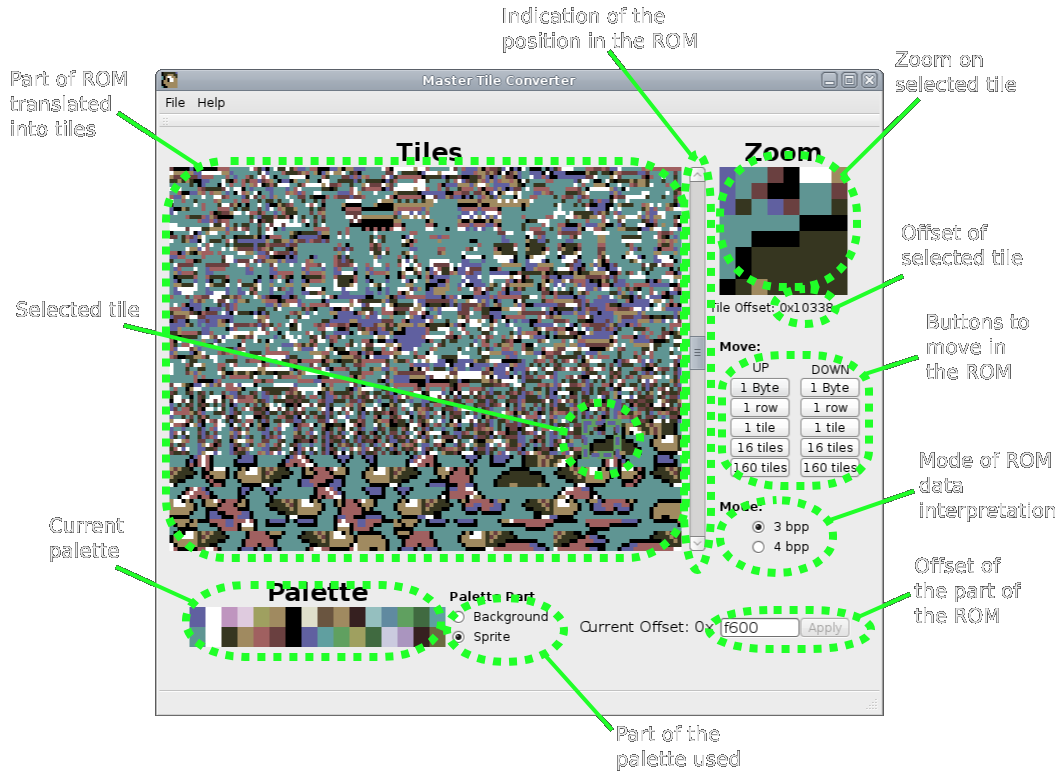
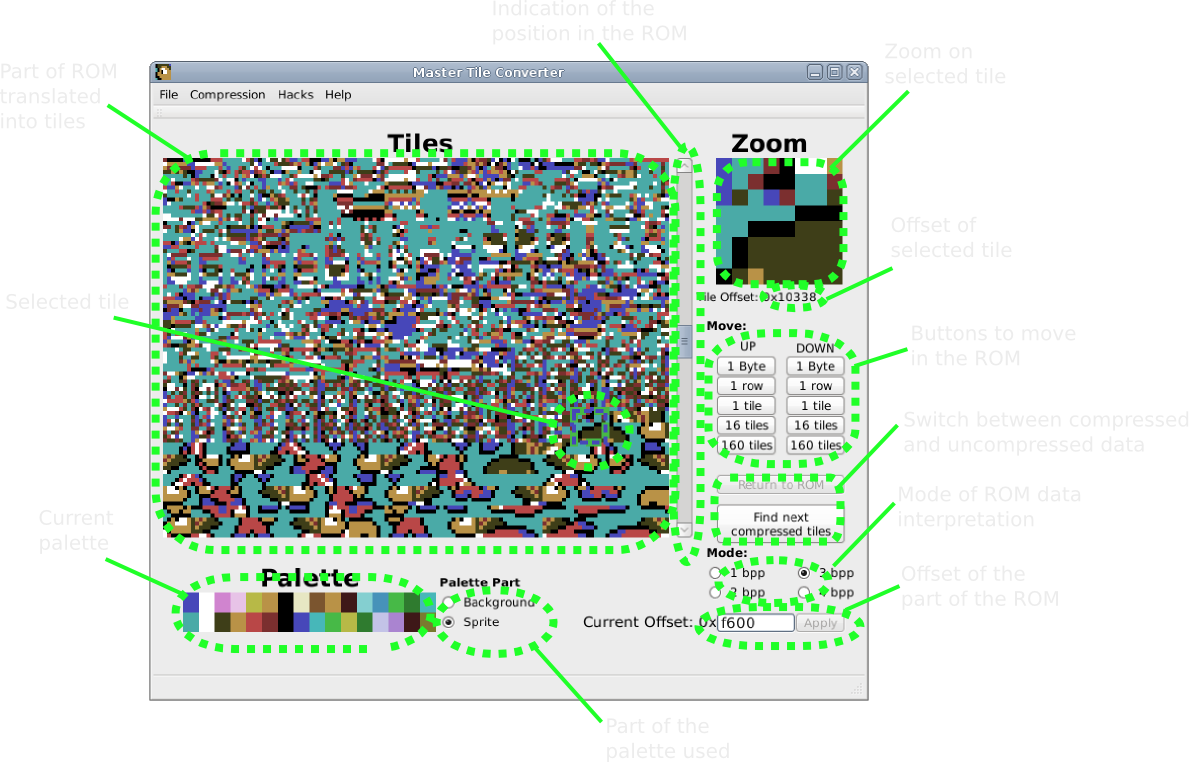
update doc

diff --git a/doc/index.html b/doc/index.html
@@ -5,6 +5,7 @@
         <meta charset="utf-8"/>
         <link rel="stylesheet" href="mastertileconverter.css" />
         <link rel="icon" type="images/png" href="images/mastertileconverter.ico" />
+        <meta name="keywords" content="sega, sms, master system, tile, hack, rom, editor, master tile converter, sms power"/>
         <title>Master Tile Converter</title>
     </head>
     <body>
@@ -16,16 +17,20 @@
         <div id="corps">
           <h2>Description</h2>
             <p>Welcome to <strong>Master Tile Converter</strong>!</p>
-            <p>Master Tile Converter (MTC) can export and import 3bpp and 4bpp tiles in Sega Master System (SMS) roms. It uses a portable QT interface.<p>
+            <p>Master Tile Converter (MTC) can export and import several tiles formats in Sega Master System (SMS) roms. It uses a portable Qt interface.<p>
             <p>Features:
               <ul>
                   <li>Read SMS roms</li>
                   <li>Import <a href="http://www.smspower.org/meka/">Meka</a> palette</li>
-                  <li>Display 4bpp and 3bpp uncompressed pictures</li>
-                  <li>Export 4bpp and 3bpp uncompressed pictures</li>
-                  <li>Import BMP pictures</li>
+                  <li>Display 4bpp, 3bpp, 2bpp and 1bpp uncompressed tiles</li>
+                  <li>Export 4bpp, 3bpp, 2bpp and 1bpp uncompressed tiles</li>
+                  <li>Import BMP tiles</li>
+                  <li>Export 4bpp compressed tiles</li>
+                  <li>Compress 4bpp tiles</li>
+                  <li>Import compressed tiles</li>
                   <li>Export modified ROM</li>
                   <li>Correct ROM checksum</li>
+                  <li>Apply hacks to ROM (byte modification)</li>
                   <li>Work on GNU/Linux, MacOS and Windows</li>
                   <li>Free software (GNU), open source</li>
               </ul>
@@ -33,9 +38,9 @@
             <p>Contact: <img src="images/ctct.png" alt="contact"/></p>
           
           <h2>Downloads</h2>
-            <p>Binary version for Windows (old version): <a href="https://github.com/jmimu/Master-Tile-Converter/downloads">https://github.com/jmimu/Master-Tile-Converter/downloads</a></p>
+            <p>Binary version for Windows: <a href="https://github.com/jmimu/Master-Tile-Converter/downloads">https://github.com/jmimu/Master-Tile-Converter/downloads</a></p>
             <p>Development version sources (using <a href="http://git-scm.com/">git</a>): <a href="https://github.com/jmimu/Master-Tile-Converter">https://github.com/jmimu/Master-Tile-Converter</a></p>
-            <p>How to compile: install <a href="http://qt.nokia.com/downloads/downloads#qt-creator">QtCreator</a>, and open <strong>mastertileconverter.pro</strong></p>
+            <p>How to compile: install <a href="http://qt.nokia.com/downloads/downloads#qt-creator">QtCreator</a>, and open <strong>mastertileconverter.pro</strong>, and compile!</p>
 
           <h2>Help</h2>              
             <h3>Interface</h3>
@@ -43,22 +48,23 @@
             <h3>Instructions</h3>
               <ul>
                   <li>Open a SMS ROM in meka. When you see the tile you want to modify, export the palette (raw).</li>
-                  <li>Run mastertileconverter, and open the SMS ROM (file>open rom).</li>
-                  <li>Import your Meka palette (file import palette).</li>
+                  <li>Run mastertileconverter, and open the SMS ROM (<strong>File>Open rom</strong>).</li>
+                  <li>Import your Meka palette (<strong>File>Import palette</strong>). Default palette is Alex Kidd in Miracle World fisrt level.</li>
                   <li>Choose the part of the palette (sprite or background).</li>
-                  <li>Choose tile mode (3bpp or 4bpp).</li>
+                  <li>Choose tile mode (1bpp, 2bpp, 3bpp or 4bpp).</li>
                   <li>Go through the whole tiles (using UP/DOWN 160 tiles button) to find the tiles you want.</li>
                   <li>Align the tiles (see "Align tile" above), or input a known offset (and click on "Apply").</li>
-                  <li>Export or import BMP (see "Modify tiles" above).</li>
+                  <li>Export, modify and import BMP (see "Modify tiles" above).</li>
+                  <li>If you can't find the tiles, maybe they are compressed (see "Compressed data" above).</li>
                   <li>Save the modified rom (file>save rom). The ROM checksum will be updated.</li>
               </ul>
 
             <h3>Align tile</h3>
                 <p>When your palette is correct and you find something similar to what you are looking for:</p>
 		<p class="centrage"><img  class="screenshot" src="images/screen_align.png"  alt="align"/></p>
-                <p>In the screenshot above, the colors are not what one might expect. It is due to an incorrect byte alignment. Since (3 or 4) bytes represent 8 pixels, you have to begin at the right byte to have something correct.</p>
+                <p>In the screenshot above, the colors are not what one might expect. It is due to an incorrect byte alignment. Since (2, 3 or 4) bytes represent 8 pixels, you have to begin at the right byte to have something correct.</p>
 		<p class="centrage"><img  class="screenshot" src="images/byte_align.png"  alt="align"/></p>
-                <p>With the UP/Down 1 Byte buttons, find when the colors are correct (there are 3 or 4 possibilities)</p>
+                <p>With the UP/Down 1 Byte buttons, find when the colors are correct (there are 2, 3 or 4 possibilities)</p>
 		<p class="centrage"><img  class="screenshot" src="images/row_align.png"  alt="align"/></p>
                 <p>Then use the UP/Down 1 Row buttons to get the correct tile at the top of the tile</p>
 		<p class="centrage"><img  class="screenshot" src="images/ok_align.png"  alt="align"/></p>
@@ -67,19 +73,22 @@
                 <p>You are ready to import/export! You can note the offset for the next time...</p>
 
             <h3>Modify tiles</h3>
-                <p>When you have your tiles in correct position, you can export an image of them (file>Export Picture). You will get a 16 or 8-color BMP file, named after the offset and the number of bits per pixel, to help you remember where and how it has been taken from the ROM.</p>
+                <p>When you have your tiles in correct position, you can export an image of them <strong>File>Export Picture</strong>. You will get a 16, 8 or 4-color BMP file, named after the offset and the number of bits per pixel, to help you remember where and how it has been taken from the ROM.</p>
 		<p class="centrage"><img  class="screenshot" src="images/dump_0x10341_3bpp.png"  alt="dump"/></p>
                 <p>You can modify the picture in a graphic editor that respects indexed images palettes. It is the case of "GIMP" but not "kolourpaint", as an example.</p>
                 <p>It is very important to keep the part of the picture that are not intelligible unchanged. This data is not graphics, it may represent the music or the program and you don't want to modify it randomly...</p>
 		<p class="centrage"><img  class="screenshot" src="images/dump_0x10341_3bpp_new.png"  alt="dump"/></p>
                 <p>This picture will be the record of your work. You will be able to use it to quickly re-patch the rom.</p>
-                <p>You can import the modified picture in the rom if it is correctly aligned. The simplest way for it is to input the offset. Use file>Export Picture.</p>
+                <p>You can import the modified picture in the rom if it is correctly aligned. The simplest way for it is to input the offset. Use <strong>File>Export Picture</strong>.</p>
 
 
-            <h3>Import compressed tiles</h3>
-                <p>When you have to deal with compressed tiles, you can use Maxim’s <a href="http://www.smspower.org/maxim/Software/TileDecoder">TileDecoder</a> to extract data from roms.</p>
-                <p>After having modified tiles, you can re-compress them using Maxim’s <a href="http://www.smspower.org/maxim/Software/BMP2Tile">BMP2Tile</a> and <a href="http://www.smspower.org/maxim/Software/TileDecoder">TileDecoder</a> to create a compressed tiles .dat file.</p>
-                <p>In Master Tile Converter, use <strong>file>import compressed data</strong> to import this .dat file into the rom at the current address.</p>
+            <h3>Compressed data</h3>
+                <p>Master Tile Converter can also uncompress tiles from ROM if the compression is "Phantasy Star" RLE (see <a href="http://www.smspower.org/Development/Compression#PhantasyStarRLE">SMS Power</a>). Thanks to Maxim for his searching and sharing information! See <a href="http://www.smspower.org/maxim/Software/TileDecoder">TileDecoder</a>.</p>
+                <p>To find compressed data, just go to the begining of the rom (offset 0), and click on <strong>Find next compressed tiles</strong>. It can take some time. You can get "false positive" (tiles having no sens). In this case just click again on <strong>Find next compressed tiles</strong>.</p>
+                <p>When you find correct tiles, you can export it using <strong>File>Export Picture</strong>. You will get a 16-color BMP file, named after the offse, the number of bits per pixel, the number of decompressed tiles, and the maximum size of the compressed data.</p>
+                <p>You can modify the picture in a graphic editor that respects indexed images palettes. It is the case of "GIMP" but not "kolourpaint", as an example.</p>
+                <p>You then have to compressed the modified picture, using <strong>Compression>Compress Picture</strong>. You will be asked how many tiles have to be compressed (since the picture is 8 tiles-wide). Check picture name to be sure how many tiles to compress. Then you will have a message saying the size of the compressed data. Check that it is less than the maximum allowed (written on the picture name). It may work with a little more, but anything can happen (other pictures changed, game bug...). The compressed data is written in the file "compr_tmp.dat" in Master Tile Converter folder.</p>
+                <p>Use <strong>File>Import compressed data</strong> to import this "compr_tmp.dat" file into the rom at the current address.</p>
 
             <h3>Miscalleous hacks</h3>
                 <p>It you have to make several modifications in a rom, you can make a hack file to regroup them.</p>
